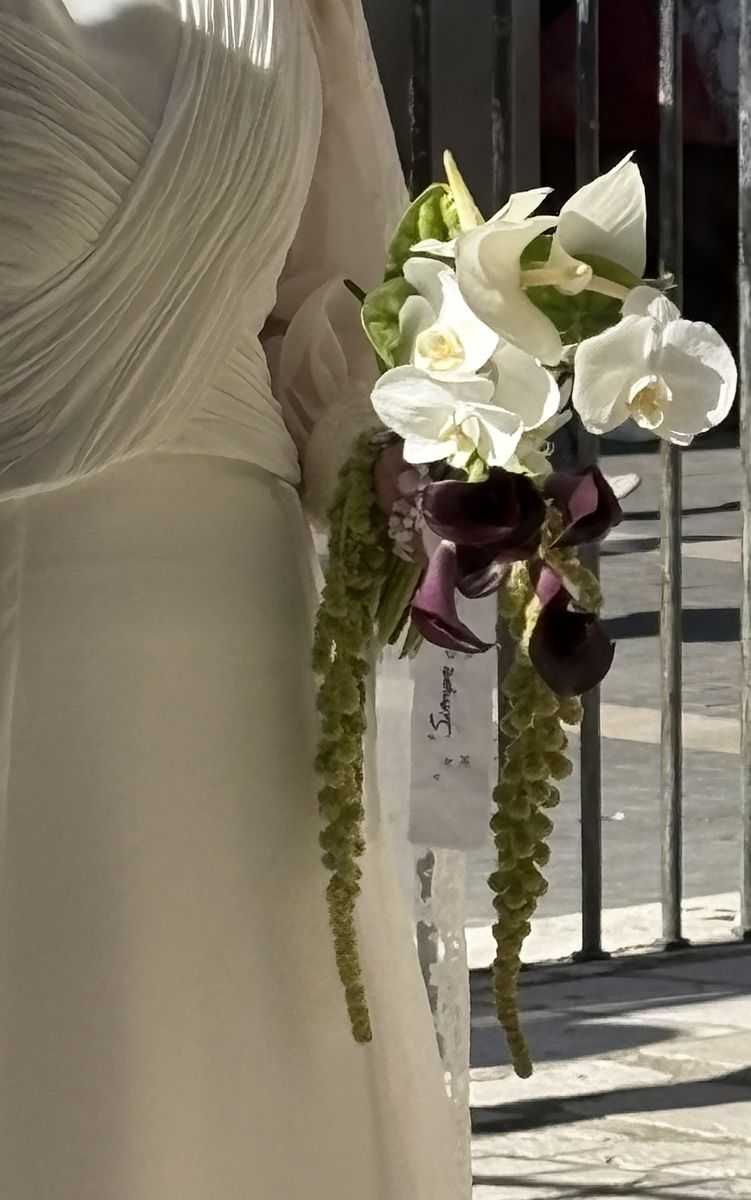
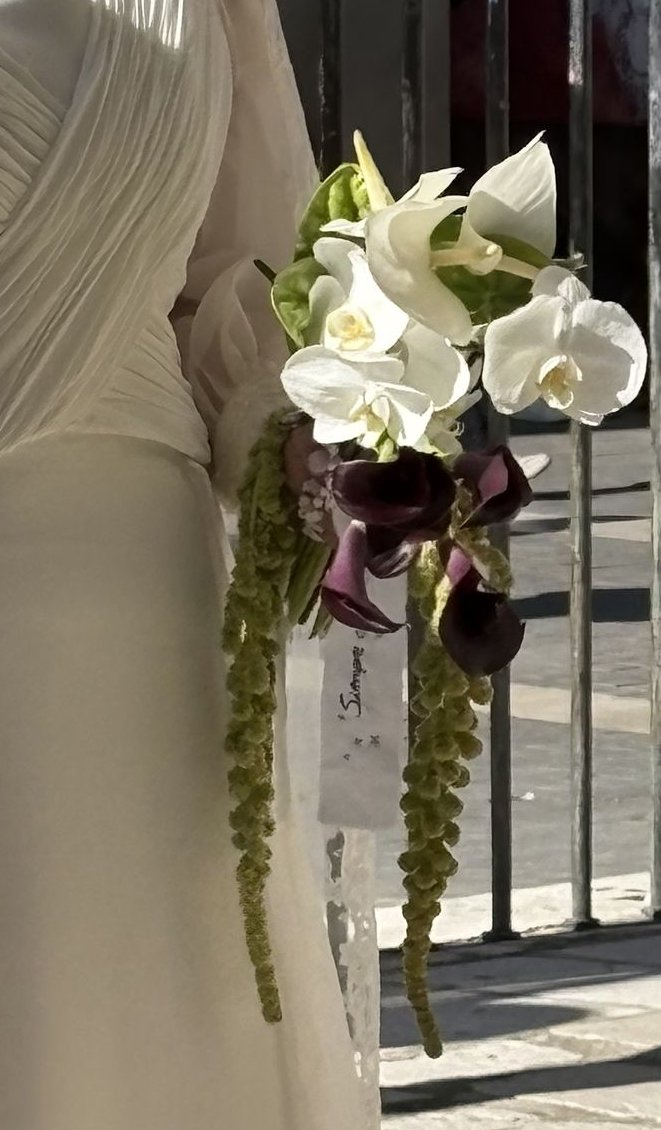
fix: reencuadres de pareja de la puerta, arco de confeti y ramo en cascada segun la clienta

diff --git a/index.html b/index.html
@@ -1776,10 +1776,10 @@
             <li class="boda-slide" style="aspect-ratio:0.750"><img src="assets/bodas/parejas-02.jpg" width="900" height="1200" alt="Pareja de novios con flores de MirFlores Atelier" loading="lazy" decoding="async" /></li>
             <li class="boda-slide" style="aspect-ratio:0.620"><img src="assets/bodas/parejas-03.jpg" width="675" height="1200" alt="Pareja de novios con flores de MirFlores Atelier" loading="lazy" decoding="async" /></li>
             <li class="boda-slide" style="aspect-ratio:0.620"><img src="assets/bodas/parejas-04.jpg" width="731" height="1200" alt="Pareja de novios con flores de MirFlores Atelier" loading="lazy" decoding="async" /></li>
-            <li class="boda-slide" style="aspect-ratio:0.780;--z:1;--p:78% 50%"><img src="assets/bodas/parejas-05.jpg" width="1800" height="1200" alt="Pareja de novios con flores de MirFlores Atelier" loading="lazy" decoding="async" /></li>
+            <li class="boda-slide" style="aspect-ratio:0.780;--z:1.18;--p:62% 75%"><img src="assets/bodas/parejas-05.jpg" width="1800" height="1200" alt="Pareja de novios con flores de MirFlores Atelier" loading="lazy" decoding="async" /></li>
             <li class="boda-slide" style="aspect-ratio:0.763"><img src="assets/bodas/parejas-06.jpg" width="916" height="1200" alt="Pareja de novios con flores de MirFlores Atelier" loading="lazy" decoding="async" /></li>
             <li class="boda-slide" style="aspect-ratio:0.677"><img src="assets/bodas/parejas-07.jpg" width="812" height="1200" alt="Pareja de novios con flores de MirFlores Atelier" loading="lazy" decoding="async" /></li>
-            <li class="boda-slide" style="aspect-ratio:0.620;--z:1.1;--p:50% 45%"><img src="assets/bodas/parejas-08.jpg" width="675" height="1200" alt="Pareja de novios con flores de MirFlores Atelier" loading="lazy" decoding="async" /></li>
+            <li class="boda-slide" style="aspect-ratio:0.620;--z:1.12;--p:50% 0%"><img src="assets/bodas/parejas-08.jpg" width="675" height="1200" alt="Pareja de novios con flores de MirFlores Atelier" loading="lazy" decoding="async" /></li>
             <li class="boda-slide" style="aspect-ratio:0.620"><img src="assets/bodas/parejas-09.jpg" width="675" height="1200" alt="Pareja de novios con flores de MirFlores Atelier" loading="lazy" decoding="async" /></li>
             <li class="boda-slide" style="aspect-ratio:0.780"><img src="assets/bodas/parejas-10.jpg" width="923" height="1003" alt="Pareja de novios con flores de MirFlores Atelier" loading="lazy" decoding="async" /></li>
             <li class="boda-slide" style="aspect-ratio:0.780;--z:1;--p:62% 50%"><img src="assets/bodas/parejas-11.jpg" width="2048" height="923" alt="Pareja de novios con flores de MirFlores Atelier" loading="lazy" decoding="async" /></li>
@@ -2144,7 +2144,7 @@
       </div>
 
       <div class="masonry-item reveal" role="listitem" tabindex="0" aria-label="Abrir imagen 9" style="transition-delay:0.30s">
-        <img src="assets/ramo-11.jpg" alt="Ejemplo de ramo a medida de MirFlores Atelier" width="751" height="1200" loading="lazy" />
+        <img src="assets/ramo-11.jpg" alt="Ejemplo de ramo a medida de MirFlores Atelier" width="661" height="1130" loading="lazy" />
         <div class="masonry-item-overlay" aria-hidden="true">
           <svg width="28" height="28" fill="none" stroke="#fff" stroke-width="1.5" viewBox="0 0 24 24"><path d="M15 3h6v6M9 21H3v-6M21 3l-7 7M3 21l7-7"/></svg>
         </div>
